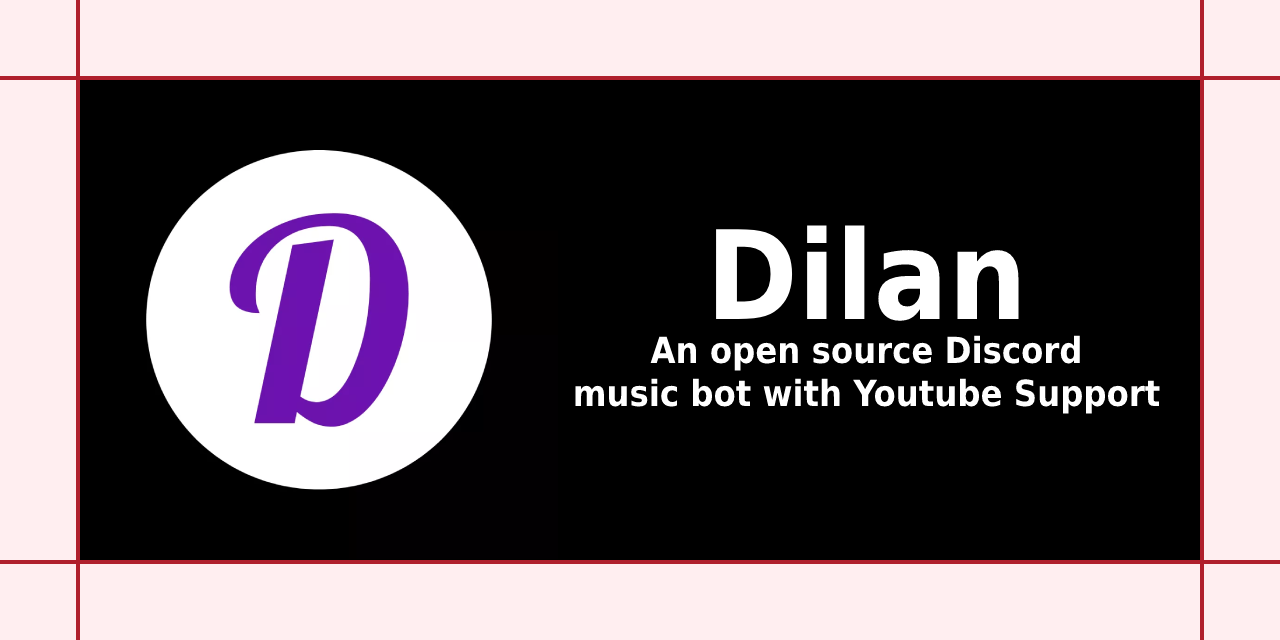
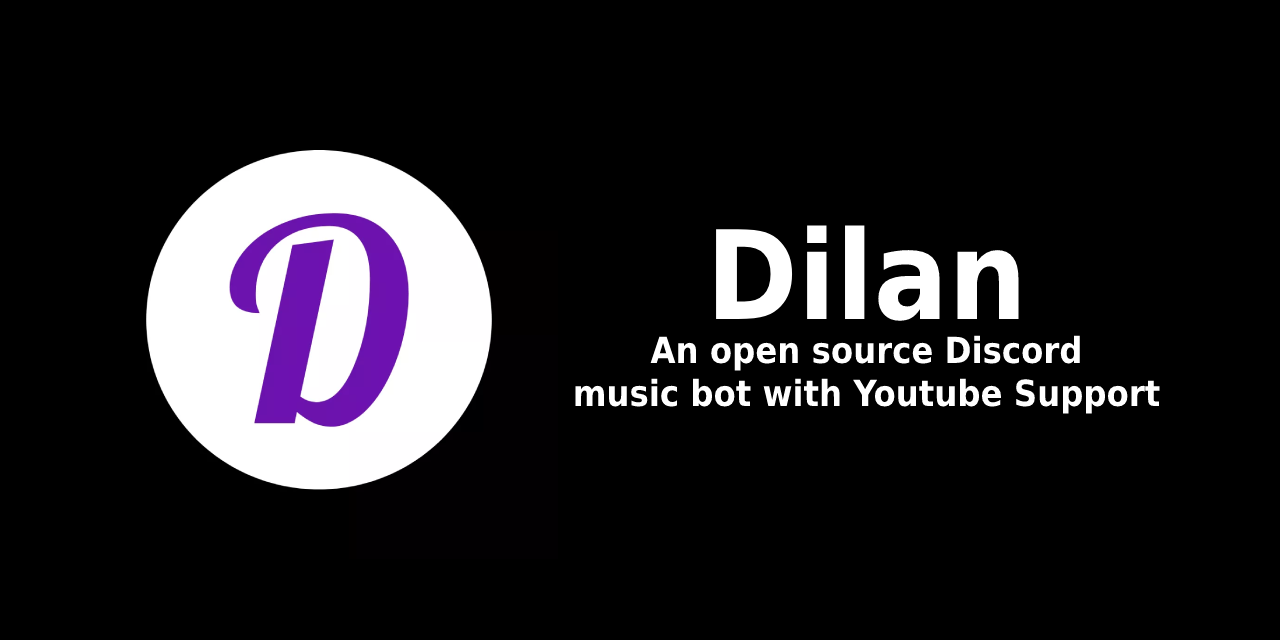
Edited the README

diff --git a/README.md b/README.md
@@ -1,4 +1,4 @@
-<img src="dilan-banner-trimmed.png" style="margin-left: auto; margin-right: auto" alt="banner">
+<img src="dilan-banner.png" style="margin-left: auto; margin-right: auto" alt="banner">
 
 <h3>Backstory</h3>
 After Google shut Rythm and Groovy down, me and my friends were looking for a way to once again hear the famous song "Never Gonna Give You Up" on our Discord server. <br>
